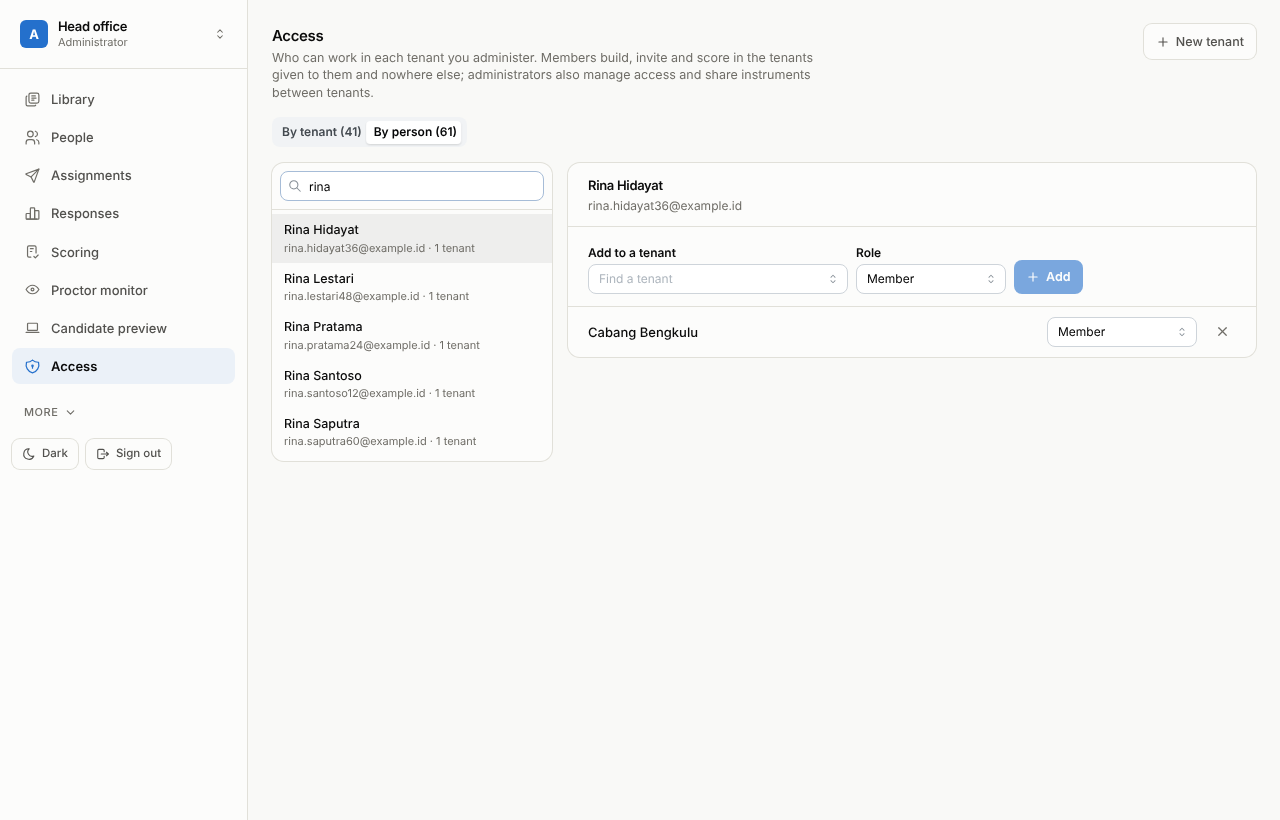
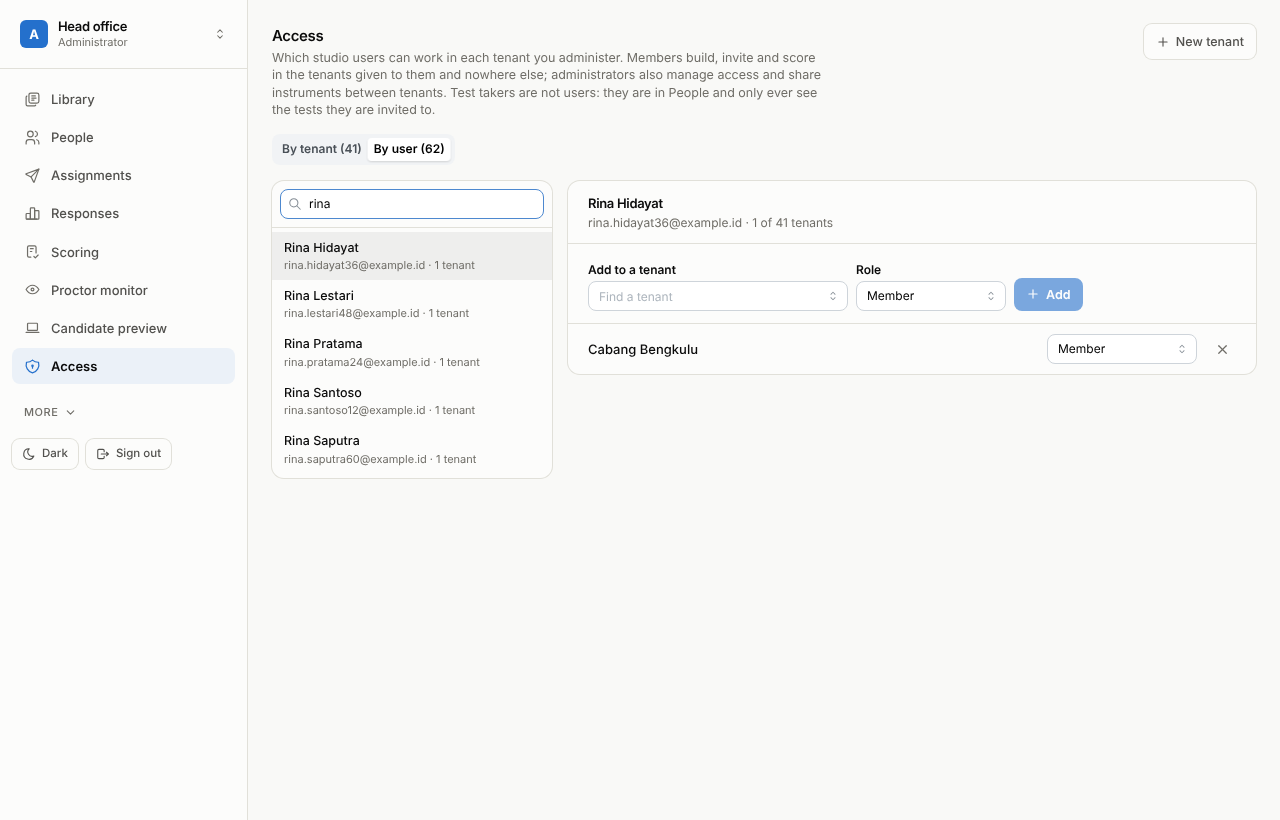
Webhooks are managed by administrators only
A webhook sends candidate data to a URL outside the tenant and shows its
signing secret, so a member must not be able to add, read or change one.
All eight webhook procedures move from Staff to Admin at the interceptor,
the studio hides the Webhooks screen from members, and
TestOnlyAnAdminManagesWebhooks checks a member is refused each of them.
Access screenshots refreshed with the users wording.

Changed region(s): [[0.2188, 0.061, 0.6562, 0.5793], [0.4062, 0.2134, 0.9688, 0.4573]]

diff --git a/apps/studio/src/App.tsx b/apps/studio/src/App.tsx
@@ -68,7 +68,8 @@ const ALL_SCREENS = [
   // Needs the core: people score essays and the worker analyses items there.
   ...(CORE ? [{ key: 'scoring', name: 'Scoring', sub: 'Essays · item analysis', Icon: IconChecklist, El: Scoring } as const] : []),
   // Needs the core: it signs and sends the requests.
-  ...(CORE ? [{ key: 'webhooks', more: true, name: 'Webhooks', sub: 'Events to your systems', Icon: IconWebhook, El: Webhooks } as const] : []),
+  // Webhooks send candidate data out and show a signing secret: administrators only.
+  ...(CORE ? [{ key: 'webhooks', more: true, admin: true, name: 'Webhooks', sub: 'Events to your systems', Icon: IconWebhook, El: Webhooks } as const] : []),
   { key: 'monitor', name: 'Proctor monitor', sub: 'Live attempts', Icon: IconEye, El: CORE ? LiveMonitor : ProctorMonitor },
   { key: 'player', name: 'Candidate preview', sub: 'See it as a candidate does', Icon: IconDeviceLaptop, El: CandidateApp },
   // Tenants exist only on the core, and only an administrator manages them.

diff --git a/services/core/internal/api/tenancy_test.go b/services/core/internal/api/tenancy_test.go
@@ -328,3 +328,60 @@ func TestSharingRollsAVersionOutToChosenTenants(t *testing.T) {
 		t.Errorf("B holds %d images, want the one the instrument shows", images)
 	}
 }
+
+// Webhooks send candidate data out of the tenant and show a signing secret,
+// so only an administrator manages them; a member is refused before the
+// handler runs, whatever the procedure.
+func TestOnlyAnAdminManagesWebhooks(t *testing.T) {
+	h := newHarness(t)
+	ctx := context.Background()
+	admin := h.tenant("Org Hooks")
+	member := newEmail("member")
+	if err := admin.setAccess(member, h.lastTenant, v1.Role_ROLE_MEMBER); err != nil {
+		t.Fatal(err)
+	}
+	m := h.signIn(member)
+
+	if _, err := admin.hooks.ListWebhooks(ctx, connect.NewRequest(&v1.ListWebhooksRequest{})); err != nil {
+		t.Fatalf("an administrator listing webhooks: %v", err)
+	}
+	calls := map[string]func() error{
+		"ListWebhooks": func() error {
+			_, err := m.hooks.ListWebhooks(ctx, connect.NewRequest(&v1.ListWebhooksRequest{}))
+			return err
+		},
+		"CreateWebhook": func() error {
+			_, err := m.hooks.CreateWebhook(ctx, connect.NewRequest(&v1.CreateWebhookRequest{Url: "https://hooks.example.com/x", Events: []string{EventAttemptStarted}}))
+			return err
+		},
+		"UpdateWebhook": func() error {
+			_, err := m.hooks.UpdateWebhook(ctx, connect.NewRequest(&v1.UpdateWebhookRequest{}))
+			return err
+		},
+		"RotateWebhookSecret": func() error {
+			_, err := m.hooks.RotateWebhookSecret(ctx, connect.NewRequest(&v1.RotateWebhookSecretRequest{}))
+			return err
+		},
+		"DeleteWebhook": func() error {
+			_, err := m.hooks.DeleteWebhook(ctx, connect.NewRequest(&v1.DeleteWebhookRequest{}))
+			return err
+		},
+		"ListDeliveries": func() error {
+			_, err := m.hooks.ListDeliveries(ctx, connect.NewRequest(&v1.ListDeliveriesRequest{}))
+			return err
+		},
+		"Redeliver": func() error {
+			_, err := m.hooks.Redeliver(ctx, connect.NewRequest(&v1.RedeliverRequest{}))
+			return err
+		},
+		"PingWebhook": func() error {
+			_, err := m.hooks.PingWebhook(ctx, connect.NewRequest(&v1.PingWebhookRequest{}))
+			return err
+		},
+	}
+	for name, call := range calls {
+		if err := call(); code(err) != connect.CodePermissionDenied {
+			t.Errorf("a member calling %s: got %v, want PermissionDenied", name, err)
+		}
+	}
+}

diff --git a/services/core/internal/api/server.go b/services/core/internal/api/server.go
@@ -117,6 +117,13 @@ func Policy() map[string]auth.Access {
 		assessmatrixv1connect.ResultServiceScoreAnswerProcedure,
 		assessmatrixv1connect.ResultServiceGetItemAnalysisProcedure,
 		assessmatrixv1connect.ProctorServiceWatchExamProcedure,
+		assessmatrixv1connect.TenantServiceListMyTenantsProcedure,
+		assessmatrixv1connect.TenantServiceSwitchTenantProcedure,
+	)
+	// Who may work here, new tenants, and what leaves this tenant for another:
+	// an instrument shared out, or candidate data sent to a webhook receiver
+	// (whose signing secret a member must never see).
+	set(auth.Admin,
 		assessmatrixv1connect.WebhookServiceListWebhooksProcedure,
 		assessmatrixv1connect.WebhookServiceCreateWebhookProcedure,
 		assessmatrixv1connect.WebhookServiceUpdateWebhookProcedure,
@@ -125,11 +132,6 @@ func Policy() map[string]auth.Access {
 		assessmatrixv1connect.WebhookServiceListDeliveriesProcedure,
 		assessmatrixv1connect.WebhookServiceRedeliverProcedure,
 		assessmatrixv1connect.WebhookServicePingWebhookProcedure,
-		assessmatrixv1connect.TenantServiceListMyTenantsProcedure,
-		assessmatrixv1connect.TenantServiceSwitchTenantProcedure,
-	)
-	// Who may work here, new tenants, and what leaves this tenant for another.
-	set(auth.Admin,
 		assessmatrixv1connect.TenantServiceCreateTenantProcedure,
 		assessmatrixv1connect.TenantServiceListAccessProcedure,
 		assessmatrixv1connect.TenantServiceSetAccessProcedure,

diff --git a/docs/12-security.md b/docs/12-security.md
@@ -9,7 +9,7 @@ penetration test before the first paid exam; sections 1–2 are what the testers
 | :--- | :--- | :--- |
 | Tenant isolation | Every tenant table has row level security keyed on `app.tenant_id`; the app connects as a role that cannot bypass it; cross-tenant lookups by id are `SECURITY DEFINER` functions that return ids only. Every RPC is in `TestTenantIsolation` | `internal/db/migrations`, `internal/api/isolation_test.go` |
 | Authorisation | Each procedure has a policy entry (public, staff, admin, candidate); a procedure without one cannot be reached | `internal/api/server.go` `Policy()`, `internal/auth` |
-| Staff across tenants | A staff row is one membership of one tenant, with a role (admin or member). A session is in one tenant at a time; switching mints a session in the other tenant and revokes the old one. Admin procedures are refused at the interceptor from the session's role, and a request that reaches another tenant (granting access, sharing an instrument) checks the caller is an admin there too. Withdrawn access ends that tenant's sessions at once; a tenant always keeps one admin | `internal/api/tenants.go`, `0007_tenancy.sql`, `internal/api/tenancy_test.go` |
+| Staff across tenants | A staff row is one membership of one tenant, with a role (admin or member). A session is in one tenant at a time; switching mints a session in the other tenant and revokes the old one. Admin procedures are refused at the interceptor from the session's role, and a request that reaches another tenant (granting access, sharing an instrument) checks the caller is an admin there too. Withdrawn access ends that tenant's sessions at once; a tenant always keeps one admin. Webhooks, which send candidate data out and show a signing secret, are managed by admins only | `internal/api/tenants.go`, `0007_tenancy.sql`, `internal/api/tenancy_test.go` |
 | Sharing instruments | A shared version is copied into each target tenant as that tenant's own instrument and published there; its images are copied into the target's storage, never read across tenants. Where it came from is not in the frozen version candidates are given | `internal/api/tenants.go` `ShareExam` |
 | Staff sign-in | Emailed one-time code, hashed at rest, short-lived; session cookie `HttpOnly`, `Secure`, `SameSite=Strict`, 12 h | `internal/api/authsvc.go` |
 | Candidate access | Invite links carry a random token, hashed at rest; one attempt per assignment | `internal/api/invite.go` |
